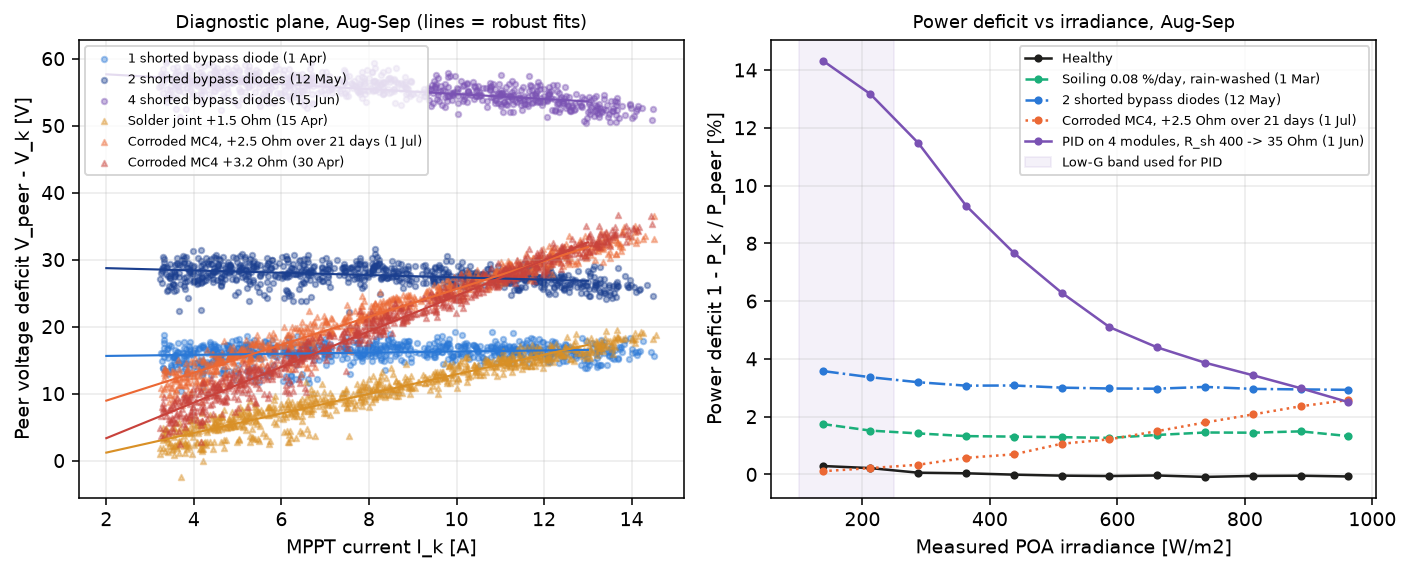
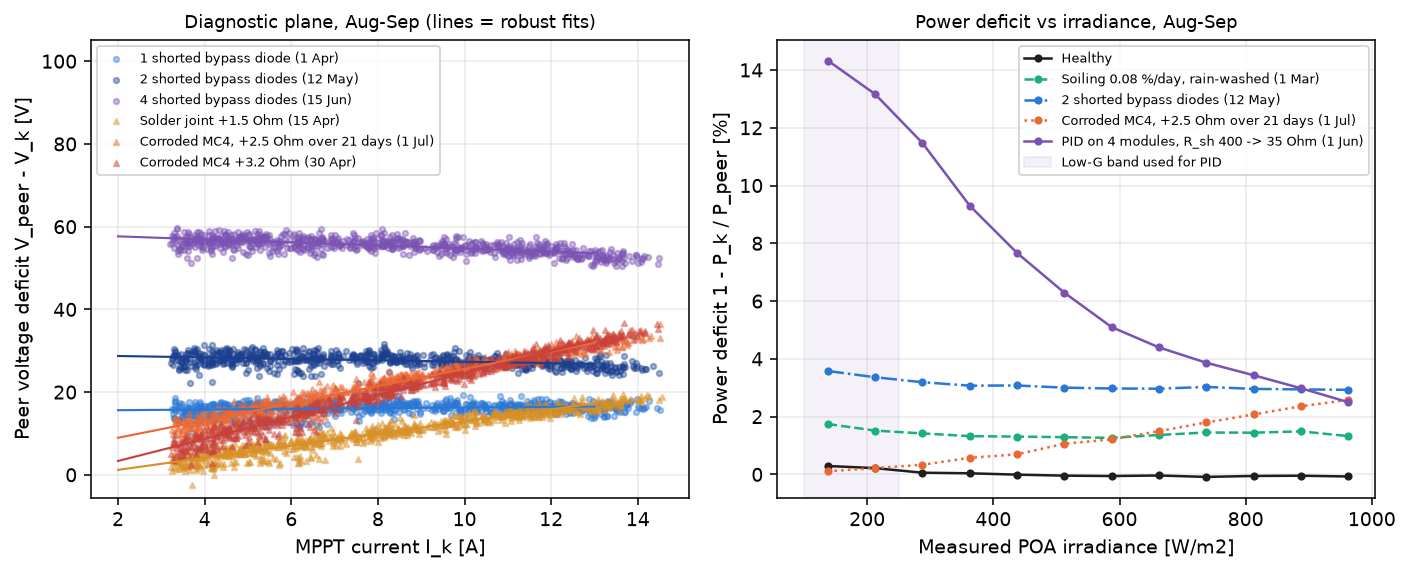
Fix chart layout: legends off titles and data
Dashboard: legend in its own band under the title on desktop, wrapped titles on phones. README figures: room above the bypass-diode series and below the PID dips for the legends. No numbers changed.

diff --git a/docs/index.html b/docs/index.html
@@ -165,13 +165,26 @@ const narrow = () => window.innerWidth < 640;
 const cfg = {responsive: true, displaylogo: false};
 
 function layoutBase(extra) {
-  return Object.assign({
+  // desktop: title at the top of the margin, legend in its own band between title and plot
+  const out = Object.assign({
     paper_bgcolor: css("--surface"), plot_bgcolor: css("--surface"),
     font: {family: "system-ui, -apple-system, Segoe UI, sans-serif", color: css("--ink2"), size: 12},
-    margin: {l: 56, r: 52, t: 36, b: 48},
+    margin: {l: 56, r: 52, t: narrow() ? 36 : 72, b: 48},
     hoverlabel: {bgcolor: css("--surface"), font: {color: css("--ink")}},
-    legend: narrow() ? {orientation: "h", y: -0.28, x: 0, font: {size: 10}} : {orientation: "h", y: 1.12, x: 0, font: {size: 11}}
+    legend: narrow() ? {orientation: "h", y: -0.28, x: 0, font: {size: 10}}
+                     : {orientation: "h", x: 0, y: 1.02, yanchor: "bottom", font: {size: 11}}
   }, extra);
+  if (out.title && !narrow()) out.title = Object.assign({x: 0.01, xanchor: "left", y: 1, yanchor: "top", pad: {t: 10}}, out.title);
+  if (out.title && narrow() && out.title.text.length > 44) {  // Plotly does not wrap titles; break them on phones
+    const lines = out.title.text.split(" ").reduce((ls, w) => {
+      const last = ls[ls.length - 1];
+      if (last && (last + " " + w).length <= 44) ls[ls.length - 1] = last + " " + w; else ls.push(w);
+      return ls;
+    }, []);
+    out.title = Object.assign({}, out.title, {text: lines.join("<br>")});
+    out.margin = Object.assign({}, out.margin, {t: out.margin.t + 16 * (lines.length - 1)});
+  }
+  return out;
 }
 const axis = extra => Object.assign({gridcolor: css("--grid"), linecolor: css("--axis"), zeroline: false}, extra);
 

diff --git a/src/pv_iv_faults/pipeline.py b/src/pv_iv_faults/pipeline.py
@@ -304,6 +304,8 @@ def generate_plots(sc: dict, ver: dict, heldout: pd.DataFrame, spec: InverterStr
     ax_dv.set_xlabel("MPPT current I_k [A]")
     ax_dv.set_ylabel("Peer voltage deficit V_peer - V_k [V]")
     ax_dv.set_title("Diagnostic plane, Aug-Sep (lines = robust fits)", fontsize=9.5)
+    lo, hi = ax_dv.get_ylim()
+    ax_dv.set_ylim(lo, hi + 0.62 * (hi - lo))  # room for the legend above the highest series
     ax_dv.legend(loc="upper left", fontsize=6.8)
 
     g_edges = np.arange(100.0, 1051.0, 75.0)
@@ -333,6 +335,8 @@ def generate_plots(sc: dict, ver: dict, heldout: pd.DataFrame, spec: InverterStr
     ax1.legend(loc="upper left", fontsize=7.0, ncol=2)
     ax2.set_ylabel("Daily median I_k / I_peer [-]")
     ax2.set_xlabel("Day of year (2025)")
+    lo, hi = ax2.get_ylim()
+    ax2.set_ylim(lo - 0.35 * (hi - lo), hi)  # room for the legend below the PID dips
     ax2.legend(loc="lower left", fontsize=7.0, ncol=2)
     ax2.set_xlim(1, 365)
     save(fig, "mppt_fleet_timeline.png")
